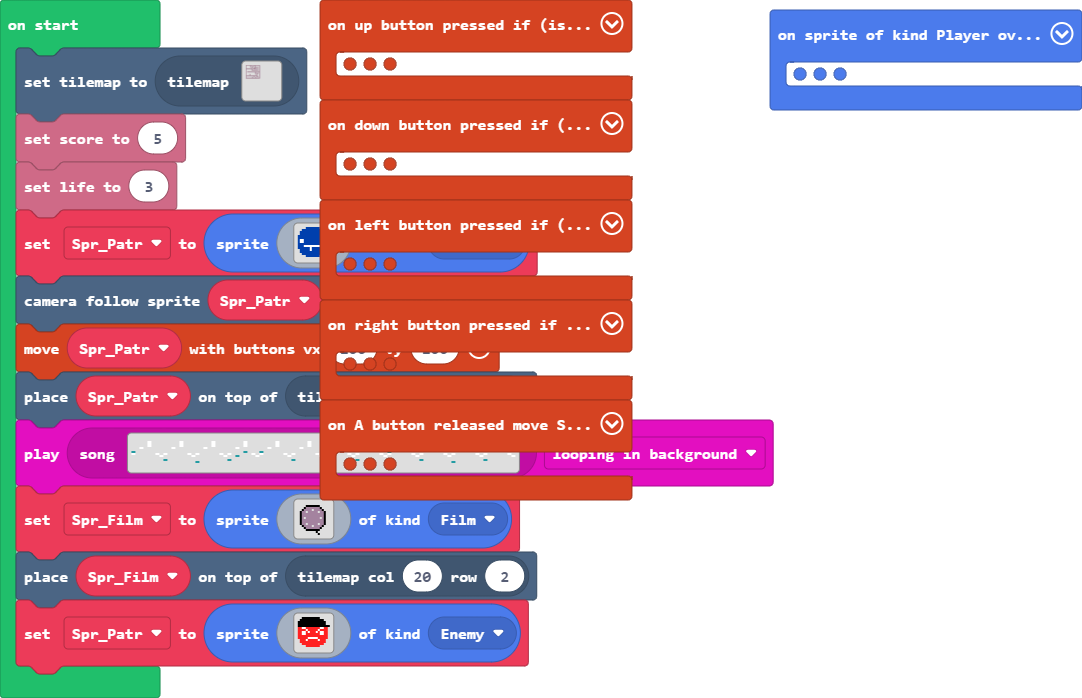
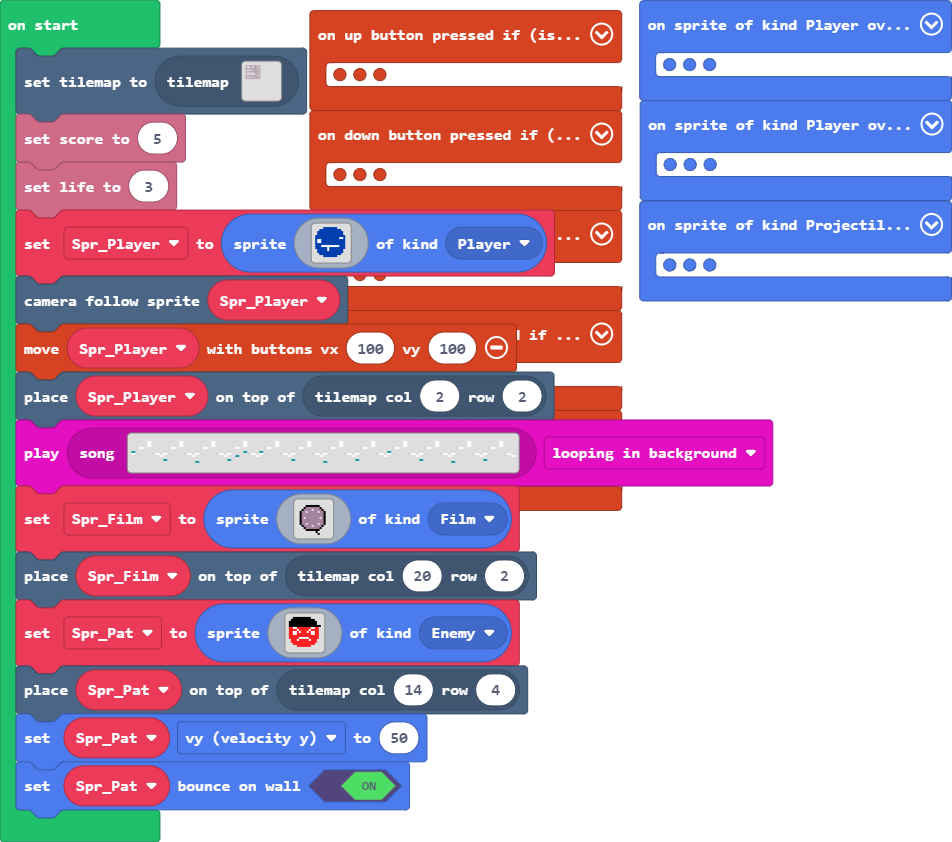
Update main.blocks, main.ts, tilemap.g.jres, tilemap.g.ts

diff --git a/tilemap.g.ts b/tilemap.g.ts
@@ -25,15 +25,15 @@ namespace myTiles {
 . . . . . . . . . . . . . . . . 
 `, [myTiles.transparency16], TileScale.Sixteen);
             case "level2":
-            case "level2":return tiles.createTilemap(hex`4000400001010101010101010101010101010101010101010101010101010101000000000000000000000000000000000000000000000000000000000000000000000000010000000000000000010000000000000000010000000000000000010000000000000000000000000000000000000000000000000000000000000000000000000100000000000000000100000000000000000100000000000000000100000000000000000000000000000000000000000000000000000000000000000000000001000000000000000001000001010101000001000000000000000001000000000000000000000000000000000000000000000000000000000000000000000000010000000000000000010000010000000000010101010101010000010000000000000000000000000000000000000000000000000000000000000000000000000100000000000000000000000100000000000100000000000000000100000000000000000000000000000000000000000000000000000000000000000000000001000000000000000000000001000001010101000000000000000001000000000000000000000000000000000000000000000000000000000000000000000000010101010101010101010101010000010101010101010101010000010000000000000000000000000000000000000000000000000000000000000000000000000100000000000000000000000100000000000000000000000000000100000000000000000000000000000000000000000000000000000000000000000000000001000000000000000000000001000000000000000000000000000001000000000000000000000000000000000000000000000000000000000000000000000000010000000000000000000000010101010101010101010101010000010000000000000000000000000000000000000000000000000000000000000000000000000100000000000000000000000000000000000000000000000000000100000000000000000000000000000000000000000000000000000000000000000000000001000000000000000000000000000000000000000000000000000001000000000000000000000000000000000000000000000000000000000000000000000000010000010101010101010101010101010101010101010101010101010000000000000000000000000000000000000000000000000000000000000000000000000100000000000000000000000000000000000001000000000000000100000000000000000000000000000000000000000000000000000000000000000000000001000000000000000000000000000000000000010000000000000001000000000000000000000000000000000000000000000000000000000000000000000000010000000000000000000000000000000000000100000101010000010000000000000000000000000000000000000000000000000000000000000000000000000100000000000000000000000000000000000001000001000000000100000000000000000000000000000000000000000000000000000000000000000000000001000000000000000100000000000000000000010000010000000001000000000000000000000000000000000000000000000000000000000000000000000000010000000000000001000000000000000000000000000100000000010000000000000000000000000000000000000000000000000000000000000000000000000100000000000000010000000000000000000000000001000000000100000000000000000000000000000000000000000000000000000000000000000000000001010101010101010101010101010101010101010101010000000001000000000000000000000000000000000000000000000000000000000000000000000000010000000000000000000000000000000100000000000100000000010000000000000000000000000000000000000000000000000000000000000000000000000100000000000000000000000000000001000000000001010100000100000000000000000000000000000000000000000000000000000000000000000000000001000000000000000000000000010000000000010000000000000001000000000000000000000000000000000000000000000000000000000000000000000000010000000000000000000000000100000000000100000000000000010000000000000000000000000000000000000000000000000000000000000000000000000101010101010101010101010101010101010101010101010101010100000000000000000000000000000000000000000000000000000000000000000000000000000000000000000000000000000000000000000000000000000000000000000000000000000000000000000000000000000000000000000000000000000000000000000000000000000000000000000000000000000000000000000000000000000000000000000000000000000000000000000000000000000000000000000000000000000000000000000000000000000000000000000000000000000000000000000000000000000000000000000000000000000000000000000000000000000000000000000000000000000000000000000000000000000000000000000000000000000000000000000000000000000000000000000000000000000000000000000000000000000000000000000000000000000000000000000000000000000000000000000000000000000000000000000000000000000000000000000000000000000000000000000000000000000000000000000000000000000000000000000000000000000000000000000000000000000000000000000000000000000000000000000000000000000000000000000000000000000000000000000000000000000000000000000000000000000000000000000000000000000000000000000000000000000000000000000000000000000000000000000000000000000000000000000000000000000000000000000000000000000000000000000000000000000000000000000000000000000000000000000000000000000000000000000000000000000000000000000000000000000000000000000000000000000000000000000000000000000000000000000000000000000000000000000000000000000000000000000000000000000000000000000000000000000000000000000000000000000000000000000000000000000000000000000000000000000000000000000000000000000000000000000000000000000000000000000000000000000000000000000000000000000000000000000000000000000000000000000000000000000000000000000000000000000000000000000000000000000000000000000000000000000000000000000000000000000000000000000000000000000000000000000000000000000000000000000000000000000000000000000000000000000000000000000000000000000000000000000000000000000000000000000000000000000000000000000000000000000000000000000000000000000000000000000000000000000000000000000000000000000000000000000000000000000000000000000000000000000000000000000000000000000000000000000000000000000000000000000000000000000000000000000000000000000000000000000000000000000000000000000000000000000000000000000000000000000000000000000000000000000000000000000000000000000000000000000000000000000000000000000000000000000000000000000000000000000000000000000000000000000000000000000000000000000000000000000000000000000000000000000000000000000000000000000000000000000000000000000000000000000000000000000000000000000000000000000000000000000000000000000000000000000000000000000000000000000000000000000000000000000000000000000000000000000000000000000000000000000000000000000000000000000000000000000000000000000000000000000000000000000000000000000000000000000000000000000000000000000000000000000000000000000000000000000000000000000000000000000000000000000000000000000000000000000000000000000000000000000000000000000000000000000000000000000000000000000000000000000000000000000000000000000000000000000000000000000000000000000000000000000000000000000000000000000000000000000000000000000000000000000000000000000000000000000000000000000000000000000000000000000000000000000000000000000000000000000000000000000000000000000000000000000000000000000000000000000000000000000000000000000000000000000000000000000000000000000000000000000000000000000000000000000000000000000000000000000000000000000000000000000000000000000000000000000000000000000000000000000000000000000000000000000000000000000000000000000000000000000000000000000000000000000000000000000000000000000000000000000000000000000000000000000000000000000000000000000000000000000000000000000000000000000000000000000000000000000000000000000000000000000000000000000000000000000000000000000000000000000000000000000000000000000000000000000000000000000000000000000000000000000000000000000000000000000000000000000000000000000000000000000000000000000000000000000000000000000000000000000000000000000000000000000000000000000000000000000000000000000000000000000000000000000000000000000000000000000000000000000000000000000000000000000000000000000000000000000000000000000000000000000000000000000000000000000000000000000000000000000000000000000000000000000000000000000000000000000000000000000000000000000000000000000000000000000000000000000000000000000000000000000000000000000000000000000000000000000000000000000000000000000000000000000000000000000000000000000000000000000000000000000000000000000000000000000000000000000000000000000000000000000000000000000000000000000000000000000000000000000000000000000000000000000000000000000000000000000000000000000000000000000000000000000000000000000000000000000000000000000000000000000000000000000000000000000000000000000000000000000000000000000000000000000000000000000000000000000000000000000000000000000000000000000000000000000000000000000000000000000000000000000000000000000000000000000000000000000000000000000000000000000000`, img`
+            case "level2":return tiles.createTilemap(hex`4000400001010101010101010101010101010101010101010101010101010101000000000000000000000000000000000000000000000000000000000000000000000000010000000000000000010000000000000000010000000000000000010000000000000000000000000000000000000000000000000000000000000000000000000100000000000000000100000000000000000100000000000000000100000000000000000000000000000000000000000000000000000000000000000000000001000000000000000001000001000000000001000000000000000001000000000000000000000000000000000000000000000000000000000000000000000000010000000000000000010000010000000000010101010101010000010000000000000000000000000000000000000000000000000000000000000000000000000100000000000000000000000100000000000100000000000000000100000000000000000000000000000000000000000000000000000000000000000000000001000000000000000000000001000000010101000000000000000001000000000000000000000000000000000000000000000000000000000000000000000000010101010101010101010101010000000101010101010101010000010000000000000000000000000000000000000000000000000000000000000000000000000100000000000000000000000100000000000000000000000000000100000000000000000000000000000000000000000000000000000000000000000000000001000000000000000000000001000000000000000000000000000001000000000000000000000000000000000000000000000000000000000000000000000000010000000000000000000000010101010101010101010101010000010000000000000000000000000000000000000000000000000000000000000000000000000100000000000000000000000000000000000000000000000000000100000000000000000000000000000000000000000000000000000000000000000000000001000000000000000000000000000000000000000000000000000001000000000000000000000000000000000000000000000000000000000000000000000000010000010101010101010101010101010101010101010101010101010000000000000000000000000000000000000000000000000000000000000000000000000100000000000000000000000000000000000001000000000000000100000000000000000000000000000000000000000000000000000000000000000000000001000000000000000000000000000000000000010000000000000001000000000000000000000000000000000000000000000000000000000000000000000000010000000000000000000000000000000000000100000101010000010000000000000000000000000000000000000000000000000000000000000000000000000100000000000000000000000000000000000001000001000000000100000000000000000000000000000000000000000000000000000000000000000000000001000000000000000100000000000000000000010000010000000001000000000000000000000000000000000000000000000000000000000000000000000000010000000000000001000000000000000000000000000100000000010000000000000000000000000000000000000000000000000000000000000000000000000100000000000000010000000000000000000000000001000000000100000000000000000000000000000000000000000000000000000000000000000000000001010101010101010101010101010101010101010101010000000001000000000000000000000000000000000000000000000000000000000000000000000000010000000000000000000000000000000100000000000100000000010000000000000000000000000000000000000000000000000000000000000000000000000100000000000000000000000000000001000000000001010100000100000000000000000000000000000000000000000000000000000000000000000000000001000000000000000000000000010000000000010000000000000001000000000000000000000000000000000000000000000000000000000000000000000000010000000000000000000000000100000000000100000000000000010000000000000000000000000000000000000000000000000000000000000000000000000101010101010101010101010101010101010101010101010101010100000000000000000000000000000000000000000000000000000000000000000000000000000000000000000000000000000000000000000000000000000000000000000000000000000000000000000000000000000000000000000000000000000000000000000000000000000000000000000000000000000000000000000000000000000000000000000000000000000000000000000000000000000000000000000000000000000000000000000000000000000000000000000000000000000000000000000000000000000000000000000000000000000000000000000000000000000000000000000000000000000000000000000000000000000000000000000000000000000000000000000000000000000000000000000000000000000000000000000000000000000000000000000000000000000000000000000000000000000000000000000000000000000000000000000000000000000000000000000000000000000000000000000000000000000000000000000000000000000000000000000000000000000000000000000000000000000000000000000000000000000000000000000000000000000000000000000000000000000000000000000000000000000000000000000000000000000000000000000000000000000000000000000000000000000000000000000000000000000000000000000000000000000000000000000000000000000000000000000000000000000000000000000000000000000000000000000000000000000000000000000000000000000000000000000000000000000000000000000000000000000000000000000000000000000000000000000000000000000000000000000000000000000000000000000000000000000000000000000000000000000000000000000000000000000000000000000000000000000000000000000000000000000000000000000000000000000000000000000000000000000000000000000000000000000000000000000000000000000000000000000000000000000000000000000000000000000000000000000000000000000000000000000000000000000000000000000000000000000000000000000000000000000000000000000000000000000000000000000000000000000000000000000000000000000000000000000000000000000000000000000000000000000000000000000000000000000000000000000000000000000000000000000000000000000000000000000000000000000000000000000000000000000000000000000000000000000000000000000000000000000000000000000000000000000000000000000000000000000000000000000000000000000000000000000000000000000000000000000000000000000000000000000000000000000000000000000000000000000000000000000000000000000000000000000000000000000000000000000000000000000000000000000000000000000000000000000000000000000000000000000000000000000000000000000000000000000000000000000000000000000000000000000000000000000000000000000000000000000000000000000000000000000000000000000000000000000000000000000000000000000000000000000000000000000000000000000000000000000000000000000000000000000000000000000000000000000000000000000000000000000000000000000000000000000000000000000000000000000000000000000000000000000000000000000000000000000000000000000000000000000000000000000000000000000000000000000000000000000000000000000000000000000000000000000000000000000000000000000000000000000000000000000000000000000000000000000000000000000000000000000000000000000000000000000000000000000000000000000000000000000000000000000000000000000000000000000000000000000000000000000000000000000000000000000000000000000000000000000000000000000000000000000000000000000000000000000000000000000000000000000000000000000000000000000000000000000000000000000000000000000000000000000000000000000000000000000000000000000000000000000000000000000000000000000000000000000000000000000000000000000000000000000000000000000000000000000000000000000000000000000000000000000000000000000000000000000000000000000000000000000000000000000000000000000000000000000000000000000000000000000000000000000000000000000000000000000000000000000000000000000000000000000000000000000000000000000000000000000000000000000000000000000000000000000000000000000000000000000000000000000000000000000000000000000000000000000000000000000000000000000000000000000000000000000000000000000000000000000000000000000000000000000000000000000000000000000000000000000000000000000000000000000000000000000000000000000000000000000000000000000000000000000000000000000000000000000000000000000000000000000000000000000000000000000000000000000000000000000000000000000000000000000000000000000000000000000000000000000000000000000000000000000000000000000000000000000000000000000000000000000000000000000000000000000000000000000000000000000000000000000000000000000000000000000000000000000000000000000000000000000000000000000000000000000000000000000000000000000000000000000000000000000000000000000000000000000000000000000000000000000000000000000000000000000000000000000000000000000000000000000000000000000000000000000000000000000000000000000000000000000000000000000000000000000000000000000000000000000000000000000000000000000000000000000000000000000000000000000000000000000000000000000000000000000000000000000000000000000000000000000000000000000000000000000000000000000000000000000000000000000000000000000000000000000000000000000000000000000000000000000000000000000000000000000000000000000000000000000000000000000000`, img`
 2222222222222222222222222222....................................
 2........2........2........2....................................
 2........2........2........2....................................
-2........2..2222..2........2....................................
+2........2..2.....2........2....................................
 2........2..2.....2222222..2....................................
 2...........2.....2........2....................................
-2...........2..2222........2....................................
-2222222222222..2222222222..2....................................
+2...........2...222........2....................................
+2222222222222...222222222..2....................................
 2...........2..............2....................................
 2...........2..............2....................................
 2...........2222222222222..2....................................

diff --git a/main.ts b/main.ts
@@ -1,9 +1,18 @@
 namespace SpriteKind {
     export const Film = SpriteKind.create()
+    export const UI = SpriteKind.create()
 }
+// interaction between patrolling enemies and players 
+// 
+sprites.onOverlap(SpriteKind.Player, SpriteKind.Enemy, function (sprite, otherSprite) {
+    info.changeLifeBy(-1)
+    Spr_Pat.vy = 0
+    pause(2000)
+    Spr_Pat.vy = 50
+})
 // resets movement once picture is taken
 controller.A.onEvent(ControllerButtonEvent.Released, function () {
-    controller.moveSprite(Spr_Patr, 100, 100)
+    controller.moveSprite(Spr_Player, 100, 100)
 })
 // Interaction that allows player to pick up film
 sprites.onOverlap(SpriteKind.Player, SpriteKind.Film, function (sprite, otherSprite) {
@@ -14,7 +23,7 @@ sprites.onOverlap(SpriteKind.Player, SpriteKind.Film, function (sprite, otherSpr
 controller.left.onEvent(ControllerButtonEvent.Pressed, function () {
     if (controller.A.isPressed()) {
         if (info.score() > 0) {
-            controller.moveSprite(Spr_Patr, 0, 0)
+            controller.moveSprite(Spr_Player, 0, 0)
             projectile = sprites.createProjectileFromSprite(img`
                 ........111.....................
                 .......11111....................
@@ -48,7 +57,7 @@ controller.left.onEvent(ControllerButtonEvent.Pressed, function () {
                 ......11111111..................
                 .......11111....................
                 ........111.....................
-                `, Spr_Patr, -200, 0)
+                `, Spr_Player, -200, 0)
             info.changeScoreBy(-1)
             pause(100)
             sprites.destroy(projectile)
@@ -59,7 +68,7 @@ controller.left.onEvent(ControllerButtonEvent.Pressed, function () {
 controller.right.onEvent(ControllerButtonEvent.Pressed, function () {
     if (controller.A.isPressed()) {
         if (info.score() > 0) {
-            controller.moveSprite(Spr_Patr, 0, 0)
+            controller.moveSprite(Spr_Player, 0, 0)
             projectile = sprites.createProjectileFromSprite(img`
                 .....................111........
                 ....................11111.......
@@ -93,7 +102,7 @@ controller.right.onEvent(ControllerButtonEvent.Pressed, function () {
                 ..................11111111......
                 ....................11111.......
                 .....................111........
-                `, Spr_Patr, 200, 0)
+                `, Spr_Player, 200, 0)
             info.changeScoreBy(-1)
             pause(100)
             sprites.destroy(projectile)
@@ -104,7 +113,7 @@ controller.right.onEvent(ControllerButtonEvent.Pressed, function () {
 controller.up.onEvent(ControllerButtonEvent.Pressed, function () {
     if (controller.A.isPressed()) {
         if (info.score() > 0) {
-            controller.moveSprite(Spr_Patr, 0, 0)
+            controller.moveSprite(Spr_Player, 0, 0)
             projectile = sprites.createProjectileFromSprite(img`
                 .............111111.............
                 ..........111111111111..........
@@ -138,7 +147,7 @@ controller.up.onEvent(ControllerButtonEvent.Pressed, function () {
                 ................................
                 ................................
                 ................................
-                `, Spr_Patr, 0, -200)
+                `, Spr_Player, 0, -200)
             info.changeScoreBy(-1)
             pause(100)
             sprites.destroy(projectile)
@@ -149,7 +158,7 @@ controller.up.onEvent(ControllerButtonEvent.Pressed, function () {
 controller.down.onEvent(ControllerButtonEvent.Pressed, function () {
     if (controller.A.isPressed()) {
         if (info.score() > 0) {
-            controller.moveSprite(Spr_Patr, 0, 0)
+            controller.moveSprite(Spr_Player, 0, 0)
             projectile = sprites.createProjectileFromSprite(img`
                 ................................
                 ................................
@@ -183,20 +192,29 @@ controller.down.onEvent(ControllerButtonEvent.Pressed, function () {
                 ........1111111111111111........
                 ..........111111111111..........
                 .............111111.............
-                `, Spr_Patr, 0, 200)
+                `, Spr_Player, 0, 200)
             info.changeScoreBy(-1)
             pause(100)
             sprites.destroy(projectile)
         }
     }
 })
+// interaction between patrolling enemies and camera flash
+// 
+// 
+sprites.onOverlap(SpriteKind.Projectile, SpriteKind.Enemy, function (sprite, otherSprite) {
+    Spr_Pat.vy = 0
+    pause(3000)
+    Spr_Pat.vy = 50
+})
 let projectile: Sprite = null
+let Spr_Pat: Sprite = null
 let Spr_Film: Sprite = null
-let Spr_Patr: Sprite = null
+let Spr_Player: Sprite = null
 tiles.setCurrentTilemap(tilemap`level2`)
 info.setScore(5)
 info.setLife(3)
-Spr_Patr = sprites.create(img`
+Spr_Player = sprites.create(img`
     . . . . 8 8 8 8 8 8 8 . . . . . 
     . . 8 8 8 8 8 8 8 8 8 8 8 . . . 
     . 8 8 8 8 8 8 8 8 8 8 8 8 8 . . 
@@ -214,9 +232,9 @@ Spr_Patr = sprites.create(img`
     . . . . 8 8 8 8 8 8 8 . . . . . 
     . . . . . . . . . . . . . . . . 
     `, SpriteKind.Player)
-scene.cameraFollowSprite(Spr_Patr)
-controller.moveSprite(Spr_Patr, 100, 100)
-tiles.placeOnTile(Spr_Patr, tiles.getTileLocation(2, 2))
+scene.cameraFollowSprite(Spr_Player)
+controller.moveSprite(Spr_Player, 100, 100)
+tiles.placeOnTile(Spr_Player, tiles.getTileLocation(2, 2))
 music.play(music.createSong(assets.song`Tip Toe`), music.PlaybackMode.LoopingInBackground)
 Spr_Film = sprites.create(img`
     . . . . . . . . . . . . . . . . 
@@ -237,7 +255,7 @@ Spr_Film = sprites.create(img`
     . . . . . . . . . . f . . . . . 
     `, SpriteKind.Film)
 tiles.placeOnTile(Spr_Film, tiles.getTileLocation(20, 2))
-Spr_Patr = sprites.create(img`
+Spr_Pat = sprites.create(img`
     . . f f f f f f f f f . . . . . 
     . f f f f f f f f f f f f . . . 
     f f f f f f f f f f f f f f . . 
@@ -255,3 +273,6 @@ Spr_Patr = sprites.create(img`
     . . . . 2 2 2 2 2 2 2 . . . . . 
     . . . . . . . . . . . . . . . . 
     `, SpriteKind.Enemy)
+tiles.placeOnTile(Spr_Pat, tiles.getTileLocation(14, 4))
+Spr_Pat.vy = 50
+Spr_Pat.setBounceOnWall(true)
